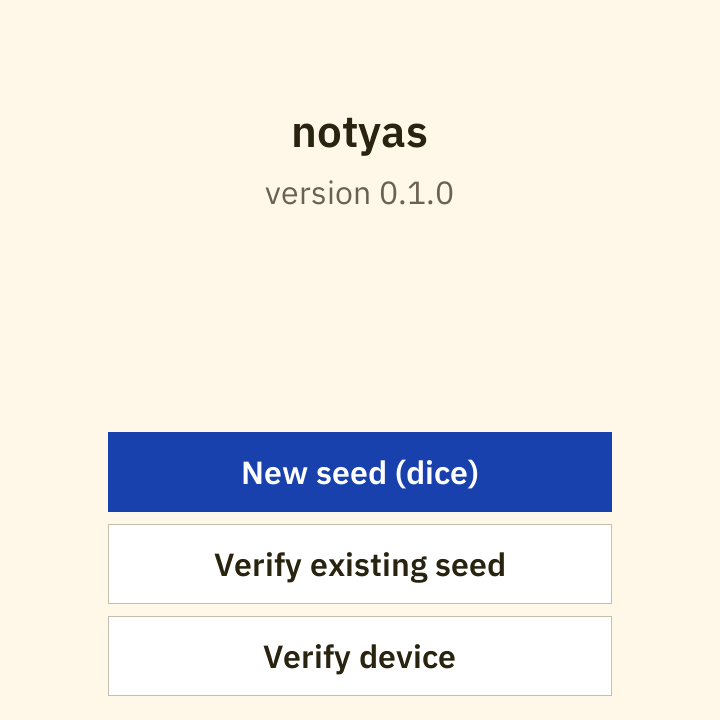
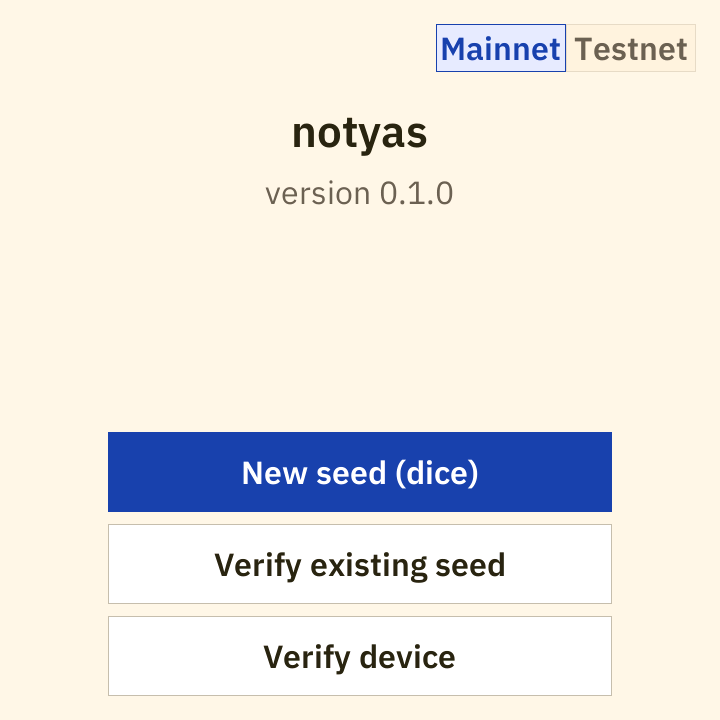
uisim: QR round trip + regenerated deterministic screenshots (11)
The simulator now plays the firmware role in the QR flow: the xpub QR
tap returns UiRequest::Qr, uisim encodes the payload with notyas-core
qr::matrix (new dep, std side - exactly the firmware split) and hands
the matrix back via show_qr. New 09-schemes-qr shot; verify/phrase
shots renumbered to 10/11. Also fills the VerifyInfo board/platform
fields the m3 Verify-screen change added (uisim had drifted and no
longer compiled).

All 11 PNGs regenerated (720x720, byte-deterministic, each frame
rendered twice and compared): home now shows the network toggle, dice
entry the roll history + six-mode control, passphrase the NFKD byte
counter, schemes the QR buttons.

Changed region(s): [[0.6111, 0.0306, 0.9778, 0.0917]]

diff --git a/tools/uisim/src/main.rs b/tools/uisim/src/main.rs
@@ -25,7 +25,7 @@
 
 use std::path::{Path, PathBuf};
 
-use notyas_ui::{Region, RegionId, TouchEvent, Ui, VerifyInfo};
+use notyas_ui::{QrData, Region, RegionId, TouchEvent, Ui, UiRequest, VerifyInfo};
 
 /// Primary panel geometry (Waveshare ESP32-P4 4B: 720x720, 229 PPI).
 const W: u32 = 720;
@@ -107,11 +107,11 @@ fn region(ui: &Ui, id: RegionId) -> Region {
         .unwrap_or_else(|| panic!("no region {id:?} on {:?}", ui.screen()))
 }
 
-fn tap(ui: &mut Ui, id: RegionId) {
+fn tap(ui: &mut Ui, id: RegionId) -> Option<UiRequest> {
     let r = region(ui, id).rect;
     let (x, y) = (r.x + r.w / 2, r.y + r.h / 2);
     ui.touch(TouchEvent::Down { x, y });
-    ui.touch(TouchEvent::Up { x, y });
+    ui.touch(TouchEvent::Up { x, y })
 }
 
 fn type_dice(ui: &mut Ui, digits: &str) {
@@ -184,6 +184,8 @@ fn main() {
     let mut ui = Ui::new(W, H);
     ui.set_verify_info(VerifyInfo {
         firmware_version: "0.1.0-DUMMY".into(),
+        board: "DUMMY simulator (no hardware)".into(),
+        platform: "DUMMY host render".into(),
         app_sha256: "DUMMY0000000000000000000000000000000000000000000000000000000000".into(),
         source_id: "DUMMY0000000000000000000000000000000000000000000000000000000000".into(),
         self_test: "DUMMY - BIP vectors pass".into(),
@@ -224,16 +226,27 @@ fn main() {
     tap(&mut ui, RegionId::Tab(2));
     shot(&out_dir, "08-schemes-bip84", &ui);
 
+    // QR modal: the account-xpub button raises a request; the simulator answers it
+    // with the core's encoder, exactly as the firmware does (public value only).
+    let Some(UiRequest::Qr(target)) = tap(&mut ui, RegionId::QrXpub) else {
+        panic!("xpub QR tap must raise a request");
+    };
+    let matrix = notyas_core::qr::matrix(&target.payload).expect("encode xpub");
+    let data = QrData::from_matrix(&matrix).expect("square matrix");
+    ui.show_qr(target, data);
+    shot(&out_dir, "09-schemes-qr", &ui);
+    tap(&mut ui, RegionId::ModalClose);
+
     // Verify device (DUMMY values installed above).
     tap(&mut ui, RegionId::Back);
     tap(&mut ui, RegionId::HomeVerifyDevice);
-    shot(&out_dir, "09-verify-device", &ui);
+    shot(&out_dir, "10-verify-device", &ui);
 
     // Verify existing seed: the desktop's well-known bad-checksum example, typed in.
     tap(&mut ui, RegionId::Back);
     tap(&mut ui, RegionId::HomeVerifySeed);
     type_keys(&mut ui, "zoo zoo zoo zoo zoo zoo zoo zoo zoo zoo zoo wrong");
-    shot(&out_dir, "10-phrase-entry", &ui);
+    shot(&out_dir, "11-phrase-entry", &ui);
 
-    println!("done: 10 screens, deterministic (each frame rendered twice, byte-identical)");
+    println!("done: 11 screens, deterministic (each frame rendered twice, byte-identical)");
 }

diff --git a/docs/screenshots/ui/README.md b/docs/screenshots/ui/README.md
@@ -18,13 +18,14 @@ Sample data - all of it public test-vector material, none of it a real seed:
 
 | File | Screen |
 |------|--------|
-| 01-home.png | Home menu |
-| 02-dice-entry.png | Dice entry, RAW mode, 128 bits collected |
+| 01-home.png | Home menu + mainnet/testnet toggle |
+| 02-dice-entry.png | Dice entry: roll history tail (unmasked typed input), RAW/12/15/18/21/24 mode control, 128 bits collected |
 | 03-mnemonic-masked.png | Mnemonic display, masked (fixed 6-bullet runs) |
 | 04-reveal-confirm.png | Two-step reveal confirm modal |
 | 05-mnemonic-revealed.png | Mnemonic display, revealed |
-| 06-passphrase.png | Passphrase entry, both fields masked (fixed 24-bullet run) |
-| 07-schemes-bip44.png | Schemes, BIP44 tab (xpub + receive addresses) |
-| 08-schemes-bip84.png | Schemes, BIP84 tab |
-| 09-verify-device.png | Verify device (DUMMY values) |
-| 10-phrase-entry.png | Verify existing seed, typed phrase + checksum advisory |
+| 06-passphrase.png | Passphrase entry, both fields masked (fixed 24-bullet run), NFKD byte counter |
+| 07-schemes-bip44.png | Schemes, BIP44 tab (xpub + receive addresses, QR buttons) |
+| 08-schemes-bip84.png | Schemes, BIP84 tab (incl. SLIP-132 zpub + QR buttons) |
+| 09-schemes-qr.png | QR modal (account xpub - public values only; no private-key QR exists) |
+| 10-verify-device.png | Verify device (DUMMY values) |
+| 11-phrase-entry.png | Verify existing seed, typed phrase + checksum advisory |
